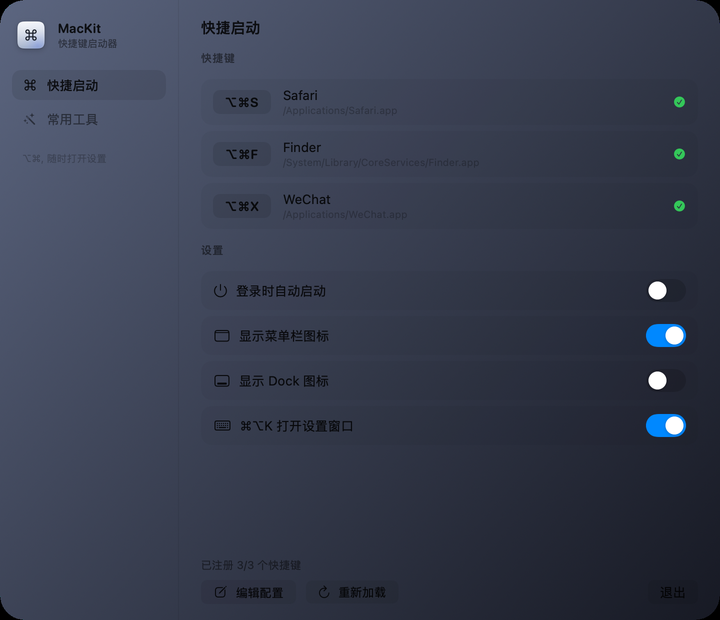
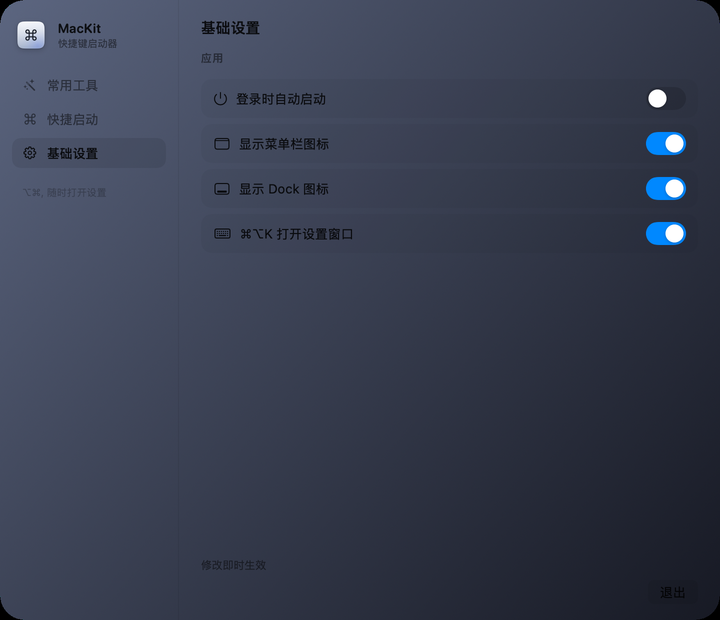
基础设置拆成独立侧栏页
- 侧栏改为 常用工具 / 快捷启动 / 基础设置 三页
- 登录自启、菜单栏图标、Dock 图标、⌘⌥K 四个开关挪到基础设置页
- 各页底部状态文案按页面区分
- 文档截图拆成三张：tools-window / launcher-window / settings-window

diff --git a/Sources/main.swift b/Sources/main.swift
@@ -567,22 +567,25 @@ final class MacKitModel: ObservableObject {
 // MARK: - SwiftUI 界面
 
 enum SettingsPage: String, CaseIterable, Identifiable {
-    case launcher
     case tools
+    case launcher
+    case settings
 
     var id: String { rawValue }
 
     var title: String {
         switch self {
-        case .launcher: return "快捷启动"
         case .tools: return "常用工具"
+        case .launcher: return "快捷启动"
+        case .settings: return "基础设置"
         }
     }
 
     var symbol: String {
         switch self {
-        case .launcher: return "command"
         case .tools: return "wand.and.stars"
+        case .launcher: return "command"
+        case .settings: return "gearshape"
         }
     }
 }
@@ -699,10 +702,12 @@ struct SettingsView: View {
                 .font(.system(size: 15, weight: .semibold, design: .rounded))
 
             switch page {
-            case .launcher:
-                launcherPage
             case .tools:
                 toolsPage
+            case .launcher:
+                launcherPage
+            case .settings:
+                appSettingsPage
             }
 
             Spacer(minLength: 0)
@@ -720,8 +725,12 @@ struct SettingsView: View {
         VStack(alignment: .leading, spacing: 14) {
             sectionLabel("快捷键")
             shortcutList
+        }
+    }
 
-            sectionLabel("设置")
+    private var appSettingsPage: some View {
+        VStack(alignment: .leading, spacing: 14) {
+            sectionLabel("应用")
             settingsRows
         }
     }
@@ -895,11 +904,19 @@ struct SettingsView: View {
 
     private var footer: some View {
         VStack(alignment: .leading, spacing: 8) {
-            Text(page == .tools ? toolsFooterText : model.status)
+            Text(footerText)
                 .font(.system(size: 11))
                 .foregroundStyle(.secondary)
 
             actions
+        }
+    }
+
+    private var footerText: String {
+        switch page {
+        case .tools: return toolsFooterText
+        case .settings: return "修改即时生效"
+        case .launcher: return model.status
         }
     }
 
